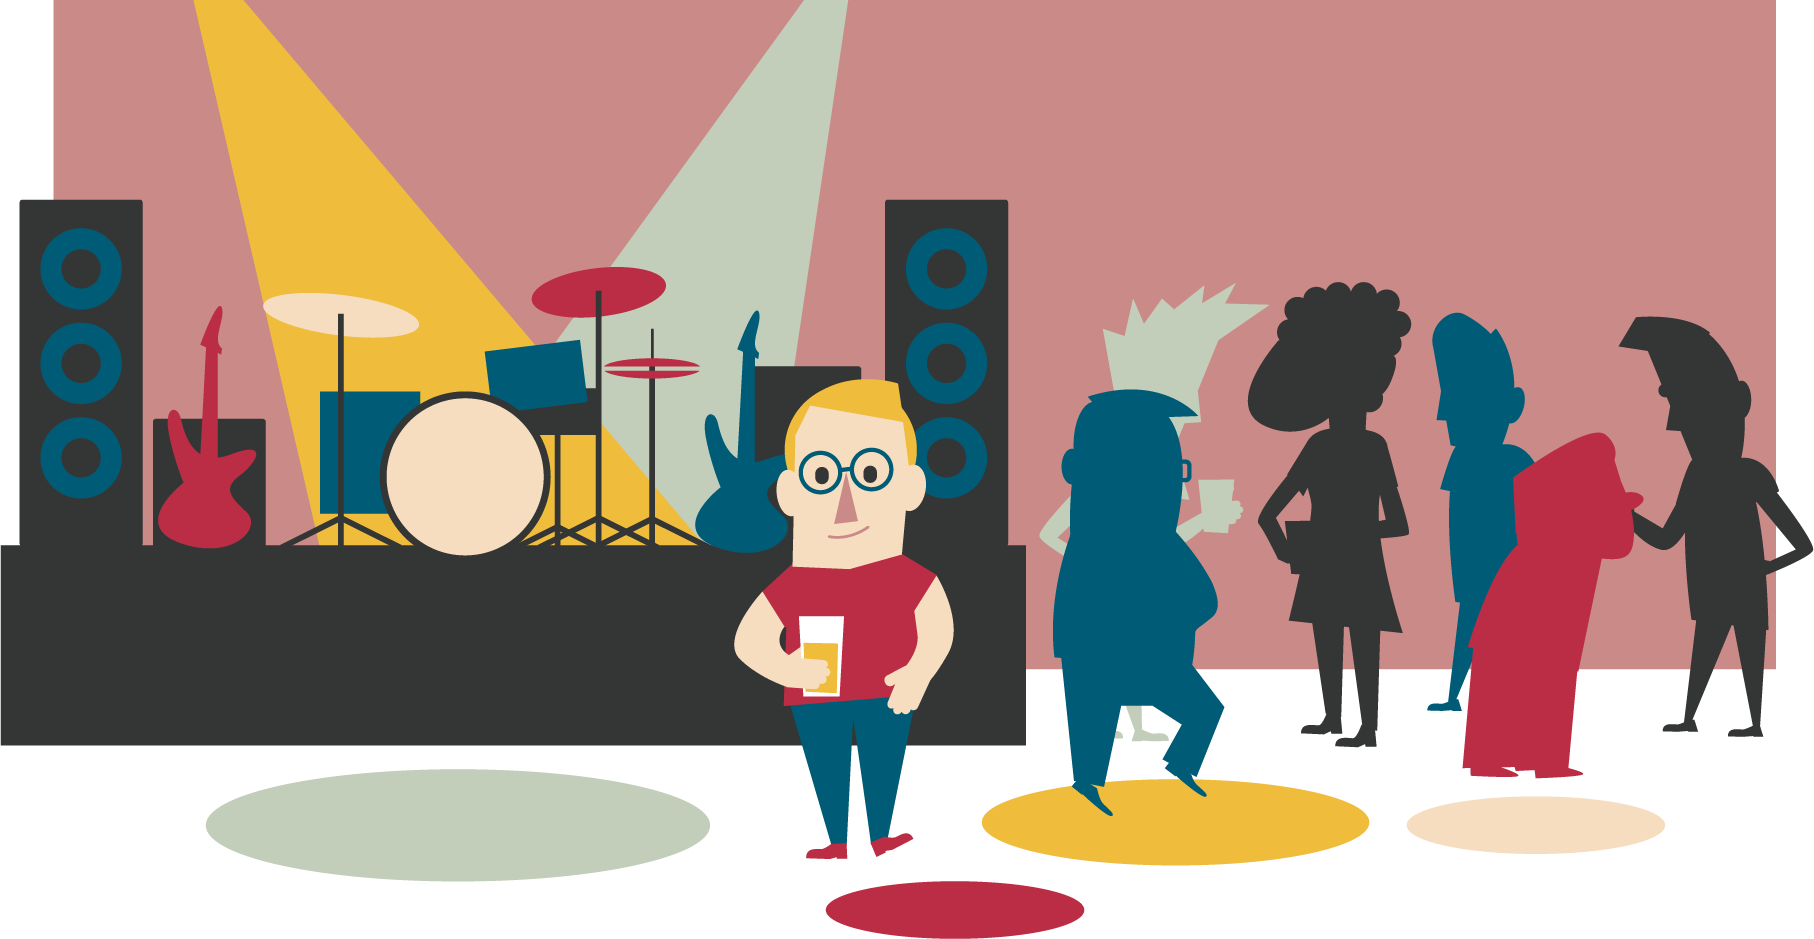
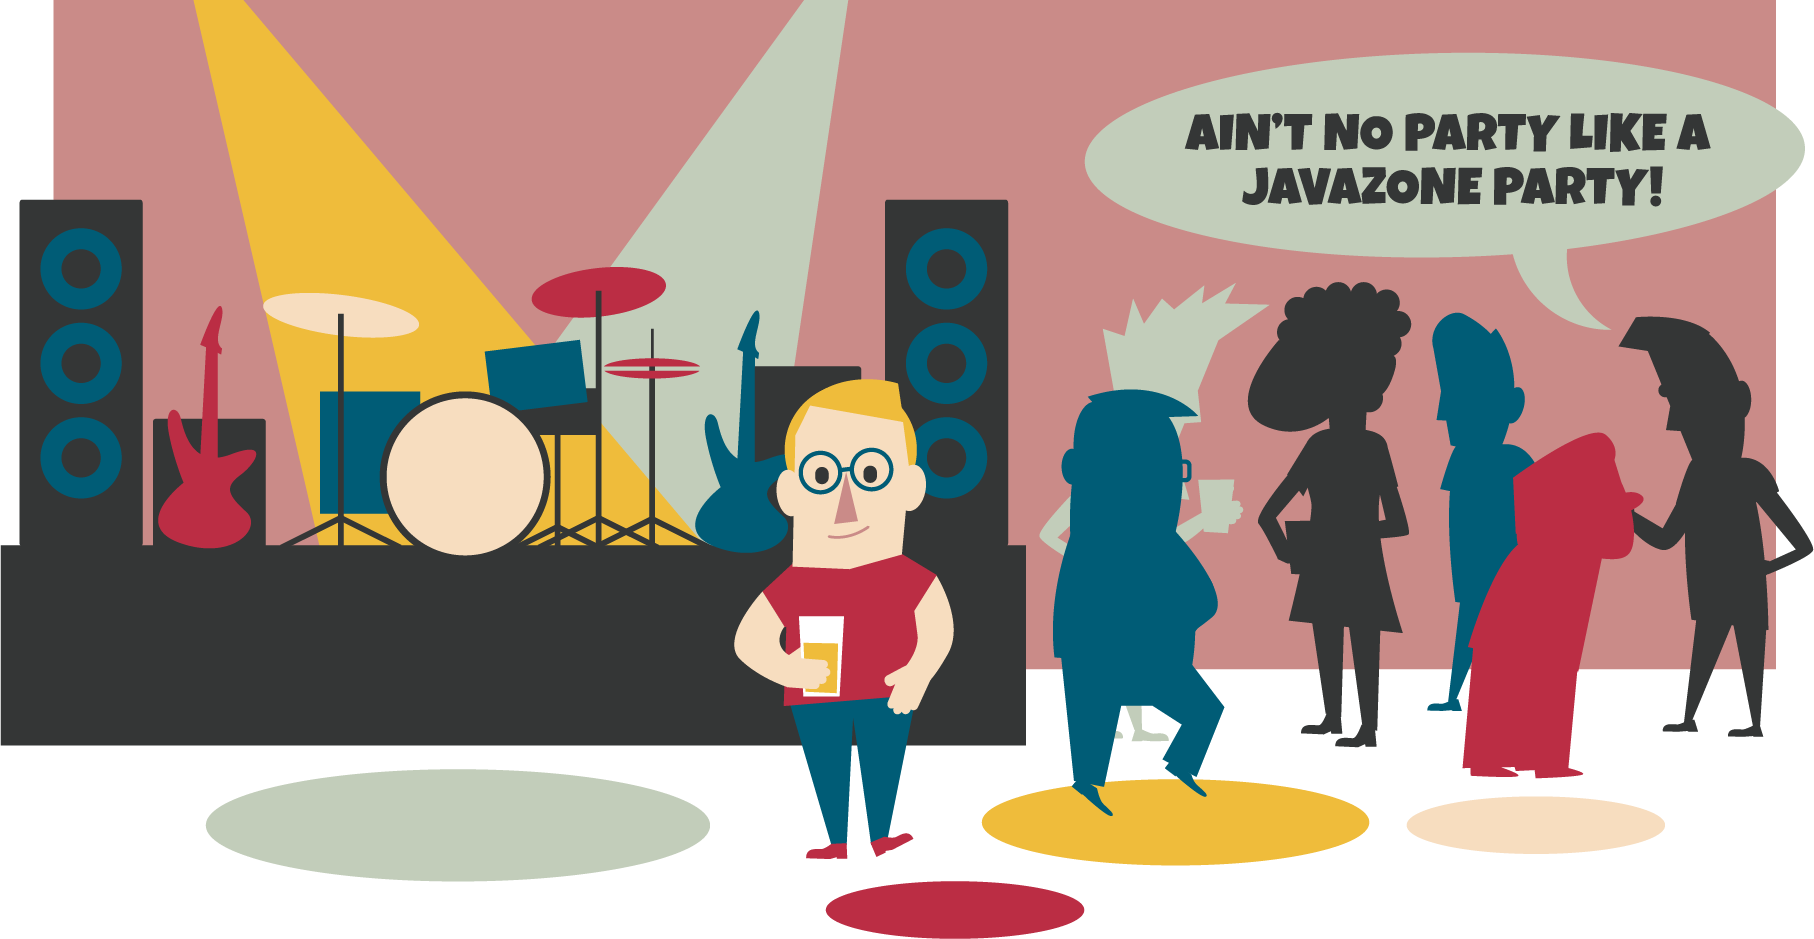
Midlertidige PNG-versjoner av illustrasjonene

Changed region(s): [[0.5865, 0.0309, 1.0, 0.3706]]

diff --git a/frontend/content/info.html b/frontend/content/info.html
@@ -95,7 +95,8 @@
 <div class="jumbotron container">
 	<div class="section cf">
 		<div class="sub-section cf">
-			<div class="illustration-placeholder wide">Illustration 2 - kart/skilter</div>
+			<!-- <div class="illustration-placeholder wide">Illustration 2 - kart/skilter</div> -->
+			<img src="/assets/img/illustrations/info_2.png">
 		</div>
 	</div>
 </div>
